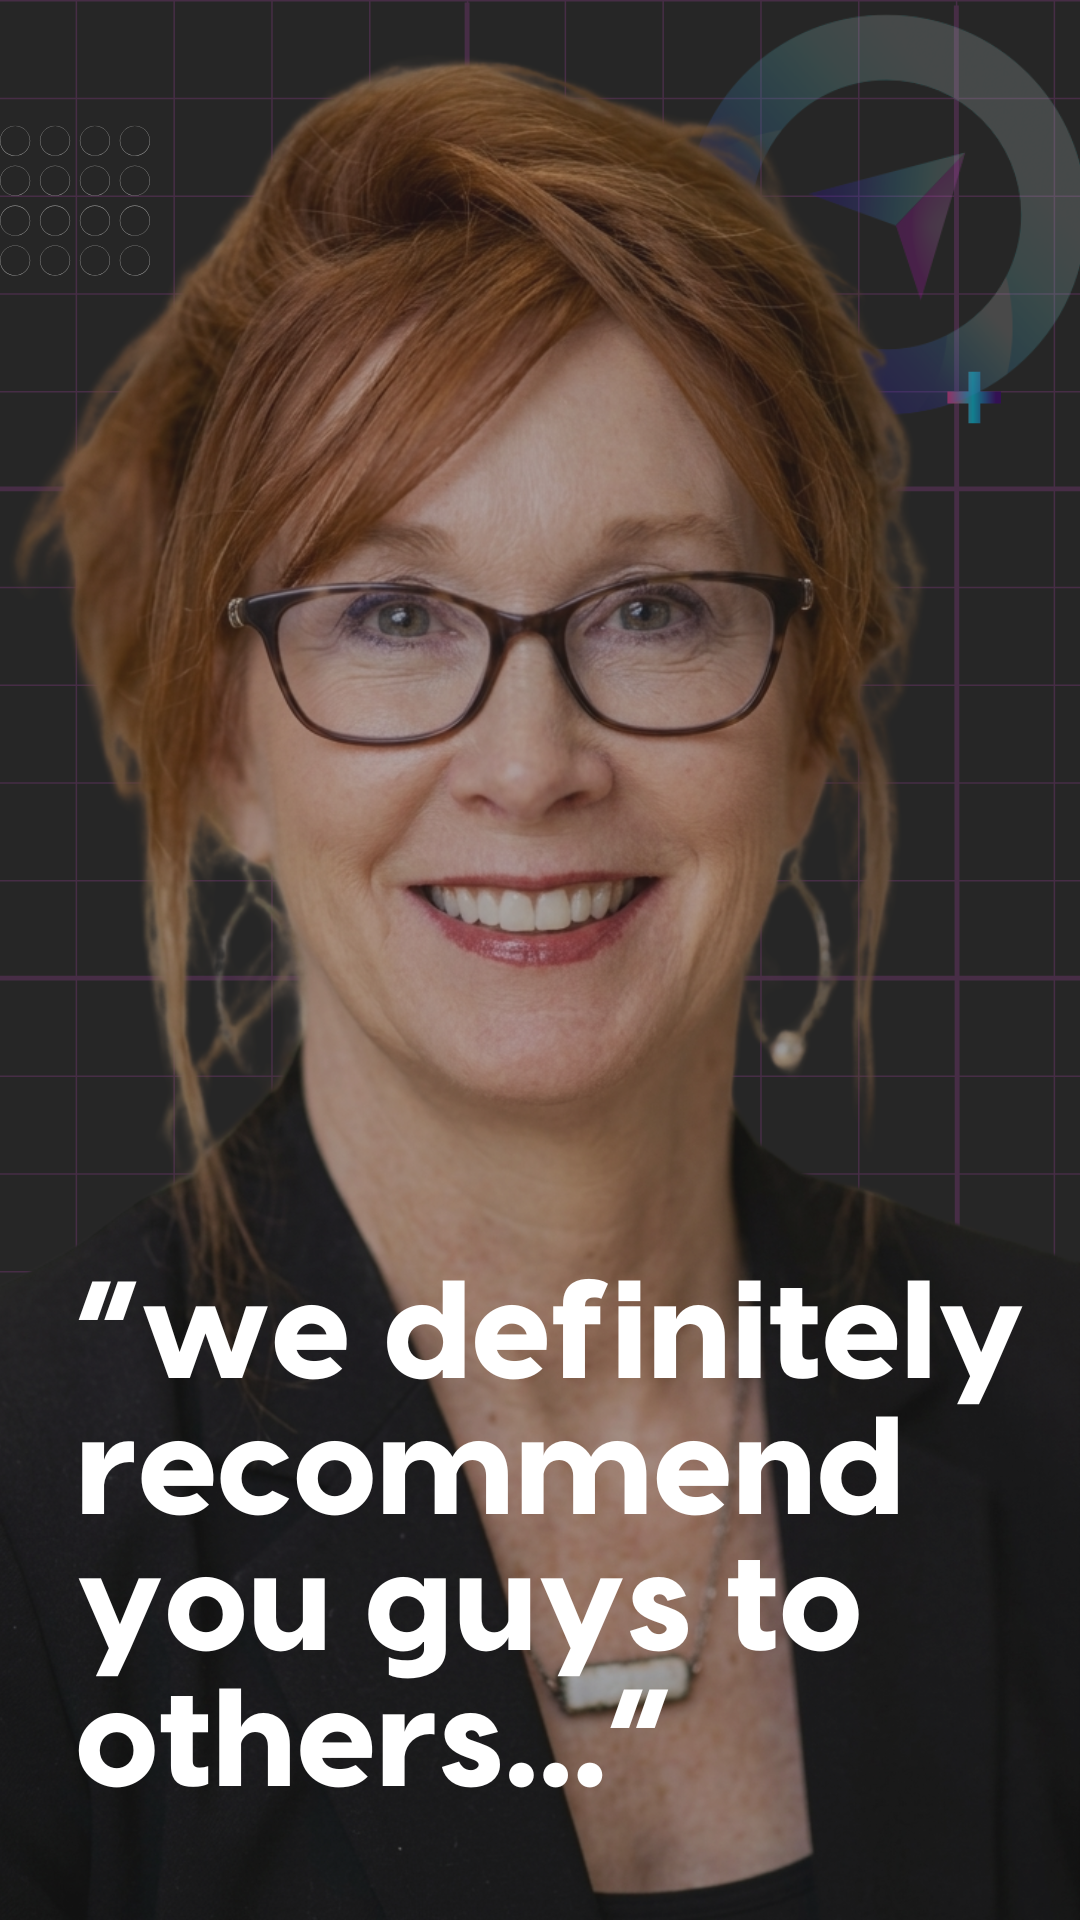
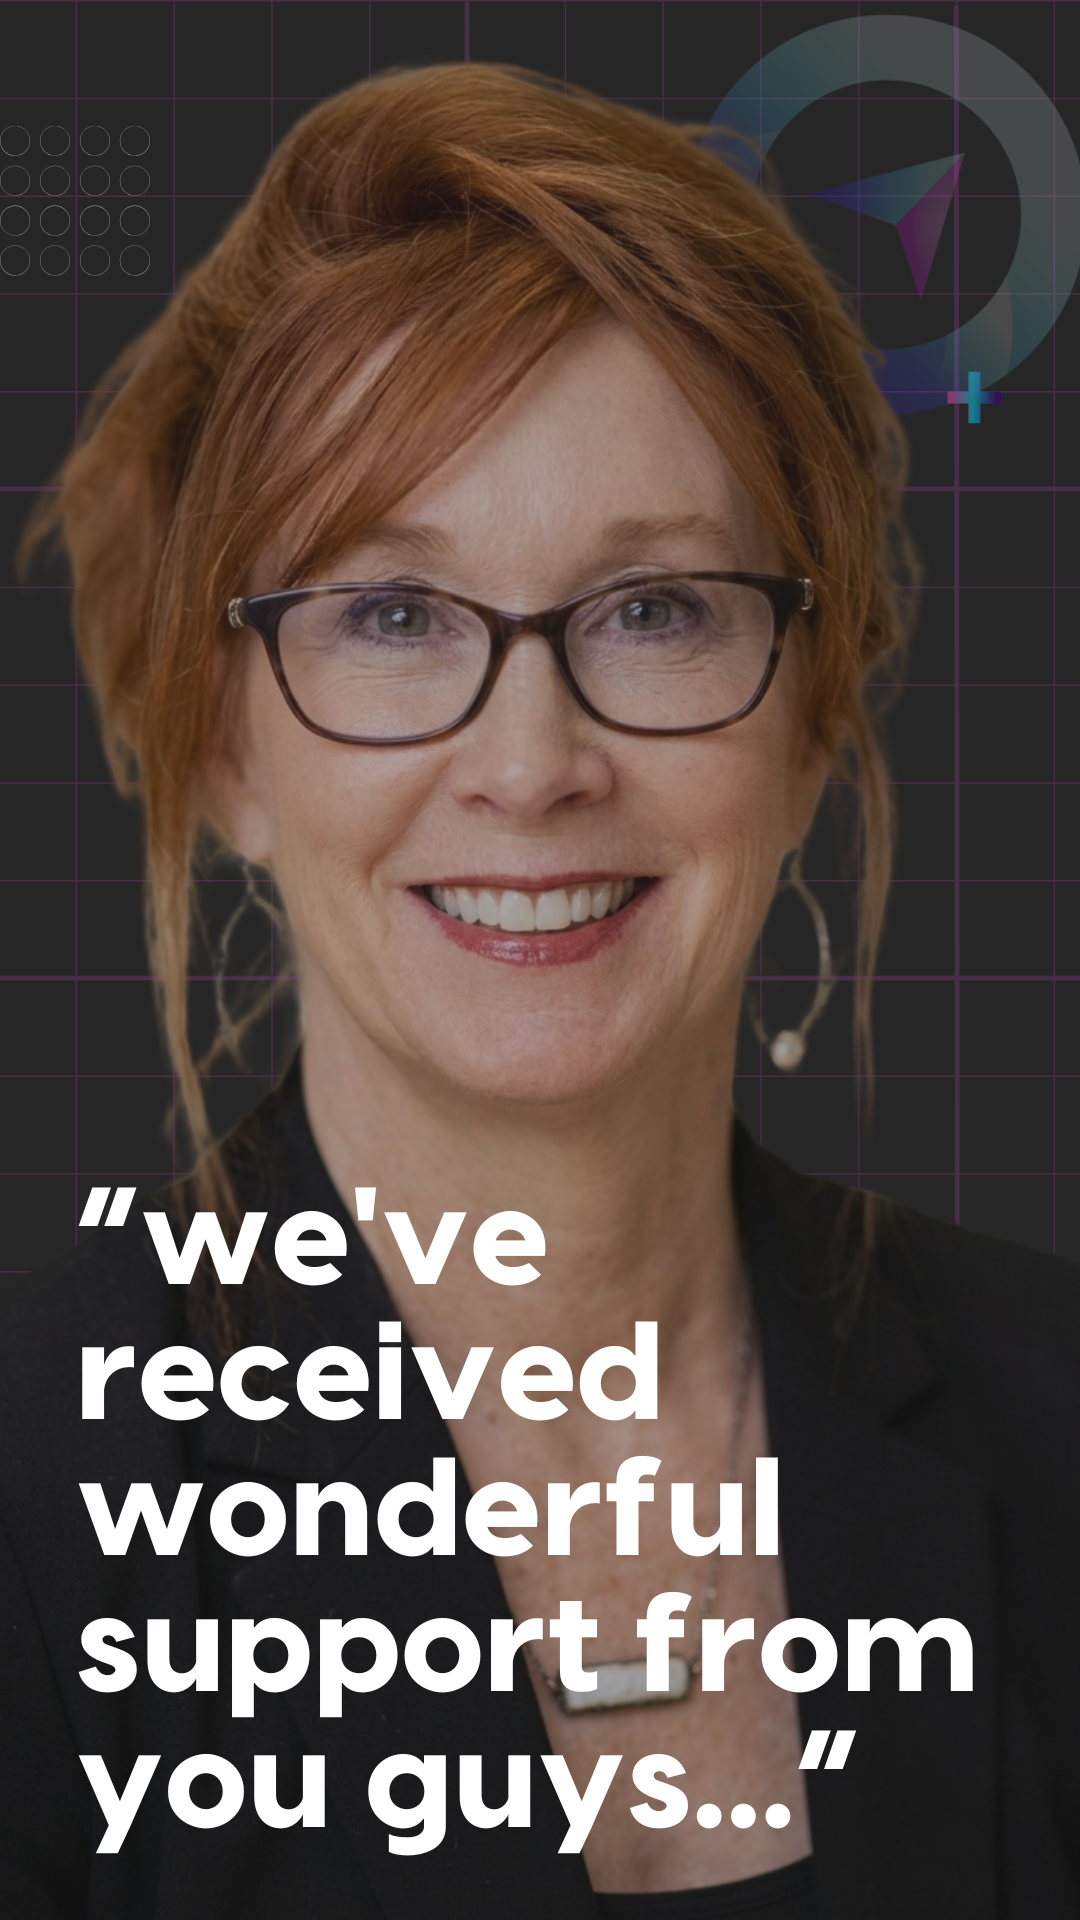
chore: rename testimonial duplicates with 2- prefix; add Nate client testimonials
- Rename homepage/isabela-2 → 2-isabela
- Rename homepage/jessica-2 → 2-jessica
- Rename homepage/wendy-2 → 2-wendy
- Add homepage/2-katrina
- Add nate/{amy,arron,dyonne,ryan} testimonial folders
- Update homepage testimonial data array to match folder layout
- Re-encode katrina/video.mp4 and refresh jessica-1/cover.png

Changed region(s): [[0.0611, 0.5938, 0.9472, 0.9688]]

diff --git a/src/data/testimonials.ts b/src/data/testimonials.ts
@@ -3,6 +3,12 @@
 // File layout: each entry's video and cover live under
 //   /public/testimonials/homepage/<slug>/{video.mp4, cover.png}
 //
+// Slug naming convention: folders use their natural slug (e.g. `jacob`,
+// `wendy-1`). Second testimonials from the same person are prefixed with
+// `2-` (e.g. `2-wendy`) so they sort separately in the file browser. The
+// data array preserves that ordering: non-prefixed first (alphabetical),
+// then 2-prefixed at the end (alphabetical).
+//
 // Advisor testimonials live in their own buckets and are loaded dynamically
 // by the advisor detail pages (see src/pages/advisors/{nate,andrew}.astro):
 //   /public/testimonials/nate/<slug>/{video.mp4, cover.png}
@@ -22,13 +28,16 @@ export const testimonials: Testimonial[] = [
 	{ name: '', title: '', location: '', videoUrl: '/testimonials/homepage/elizabeth/video.mp4',  thumbnailUrl: '/testimonials/homepage/elizabeth/cover.png' },
 	{ name: '', title: '', location: '', videoUrl: '/testimonials/homepage/erin/video.mp4',       thumbnailUrl: '/testimonials/homepage/erin/cover.png' },
 	{ name: '', title: '', location: '', videoUrl: '/testimonials/homepage/isabela-1/video.mp4',  thumbnailUrl: '/testimonials/homepage/isabela-1/cover.png' },
-	{ name: '', title: '', location: '', videoUrl: '/testimonials/homepage/isabela-2/video.mp4',  thumbnailUrl: '/testimonials/homepage/isabela-2/cover.png' },
 	{ name: '', title: '', location: '', videoUrl: '/testimonials/homepage/jacob/video.mp4',      thumbnailUrl: '/testimonials/homepage/jacob/cover.png' },
 	{ name: '', title: '', location: '', videoUrl: '/testimonials/homepage/jessica-1/video.mp4',  thumbnailUrl: '/testimonials/homepage/jessica-1/cover.png' },
-	// jessica-2 cover is missing on disk; falling back to jessica-1's cover until a dedicated cover lands.
-	{ name: '', title: '', location: '', videoUrl: '/testimonials/homepage/jessica-2/video.mp4',  thumbnailUrl: '/testimonials/homepage/jessica-1/cover.png' },
 	{ name: '', title: '', location: '', videoUrl: '/testimonials/homepage/katrina/video.mp4',    thumbnailUrl: '/testimonials/homepage/katrina/cover.png' },
 	{ name: '', title: '', location: '', videoUrl: '/testimonials/homepage/tom-taylor/video.mp4', thumbnailUrl: '/testimonials/homepage/tom-taylor/cover.png' },
 	{ name: '', title: '', location: '', videoUrl: '/testimonials/homepage/wendy-1/video.mp4',    thumbnailUrl: '/testimonials/homepage/wendy-1/cover.png' },
-	{ name: '', title: '', location: '', videoUrl: '/testimonials/homepage/wendy-2/video.mp4',    thumbnailUrl: '/testimonials/homepage/wendy-2/cover.png' },
+	// Second testimonials from the same person — sorted to the end so file
+	// browser ordering and on-page ordering both group them visually.
+	{ name: '', title: '', location: '', videoUrl: '/testimonials/homepage/2-isabela/video.mp4',  thumbnailUrl: '/testimonials/homepage/2-isabela/cover.png' },
+	// 2-jessica cover is missing on disk; falling back to jessica-1's cover until a dedicated cover lands.
+	{ name: '', title: '', location: '', videoUrl: '/testimonials/homepage/2-jessica/video.mp4',  thumbnailUrl: '/testimonials/homepage/jessica-1/cover.png' },
+	{ name: '', title: '', location: '', videoUrl: '/testimonials/homepage/2-katrina/video.mp4',  thumbnailUrl: '/testimonials/homepage/2-katrina/cover.png' },
+	{ name: '', title: '', location: '', videoUrl: '/testimonials/homepage/2-wendy/video.mp4',    thumbnailUrl: '/testimonials/homepage/2-wendy/cover.png' },
 ];